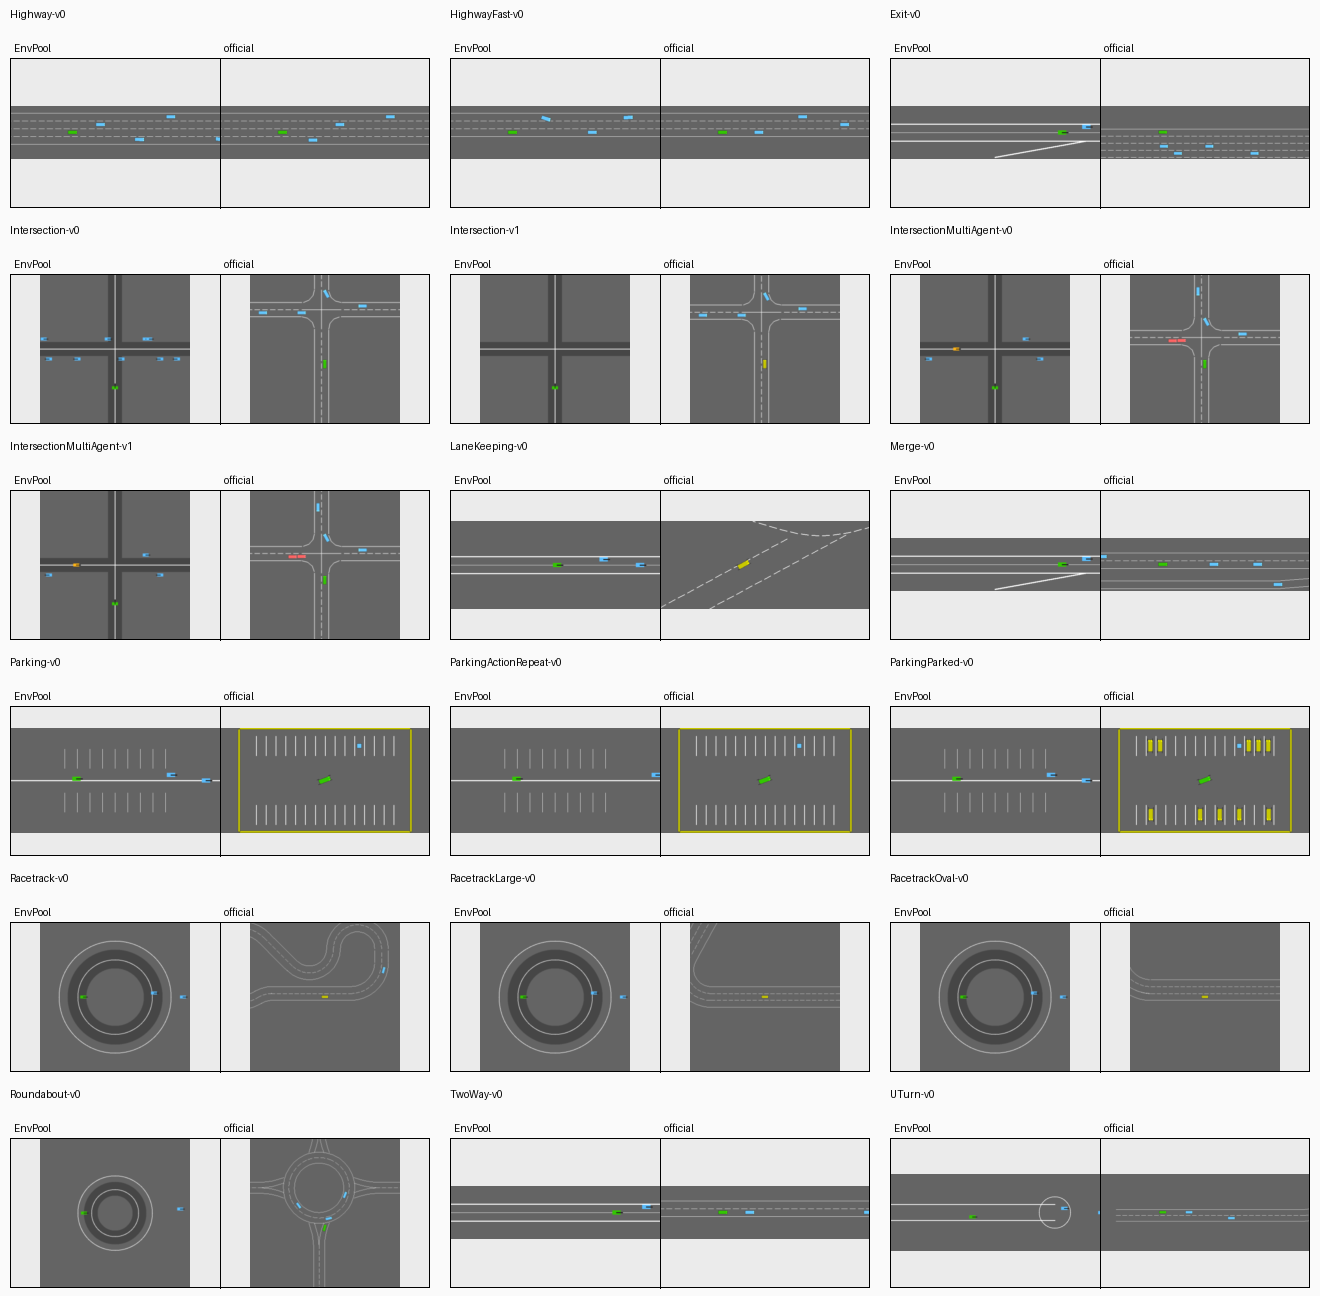
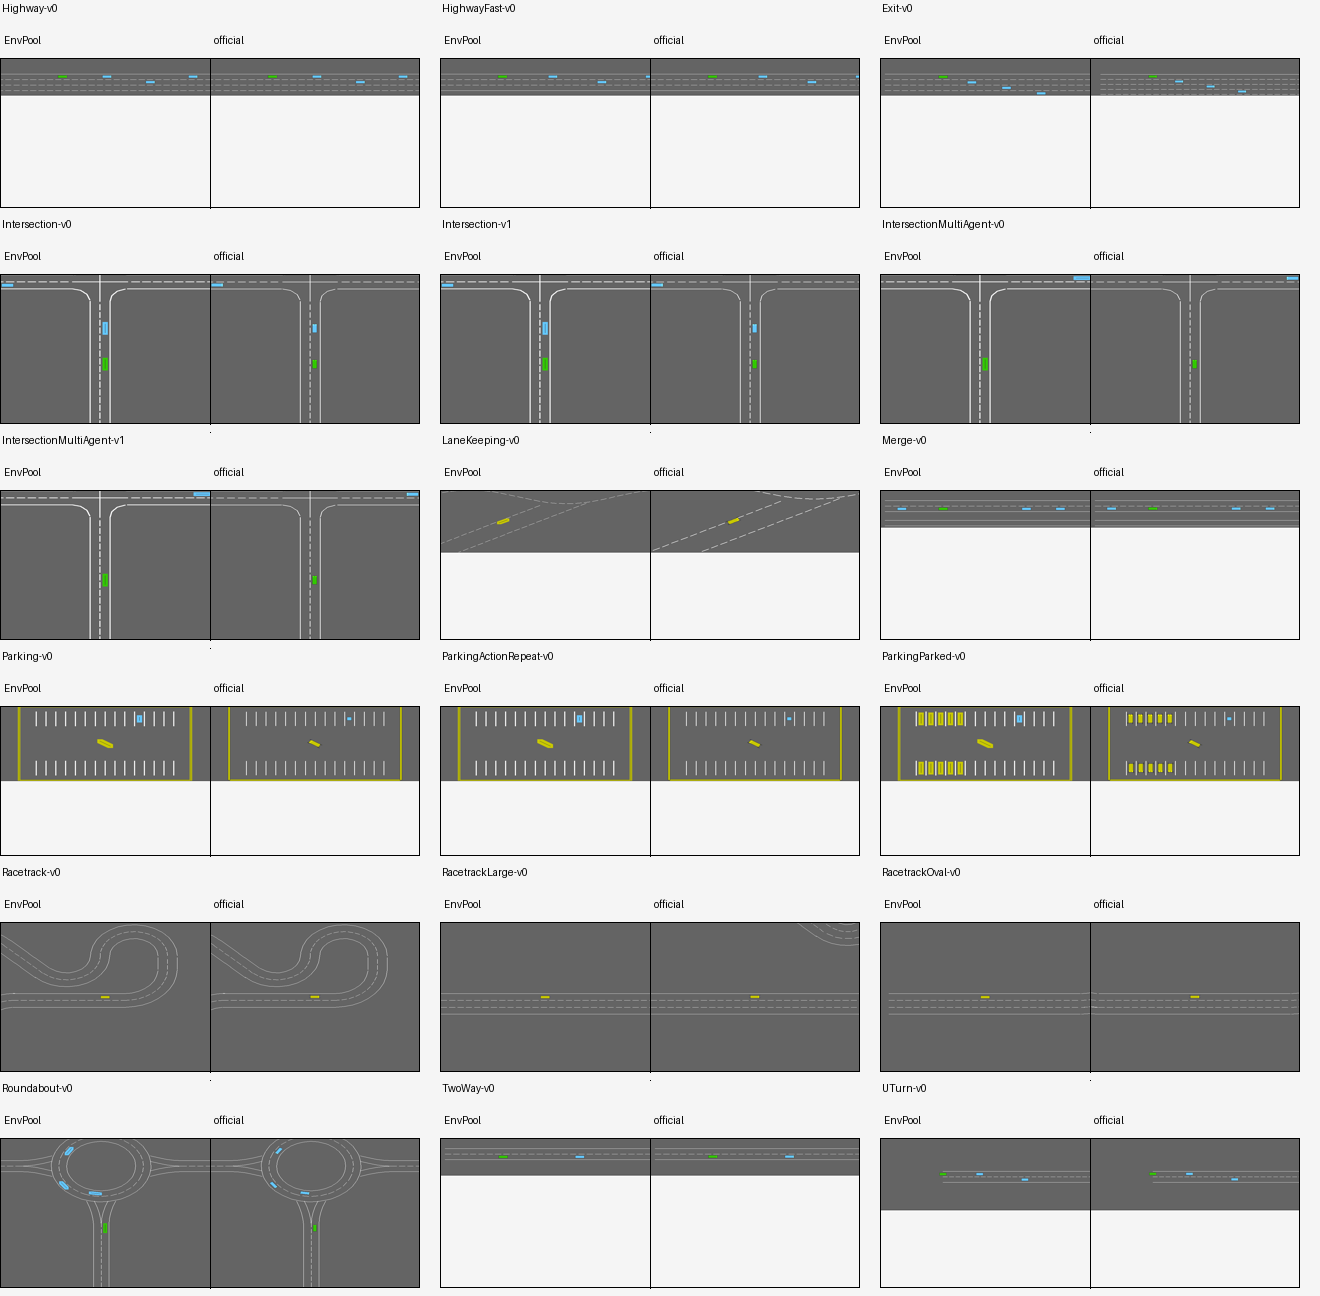
Render official highway road geometry

diff --git a/envpool/highway/native_task_env.h b/envpool/highway/native_task_env.h
@@ -85,6 +85,10 @@ inline double LMap(double value, double x0, double x1, double y0, double y1) {
   return y0 + (value - x0) * (y1 - y0) / (x1 - x0);
 }
 
+inline int Pix(double length, double scaling) {
+  return static_cast<int>(length * scaling);
+}
+
 inline void Fill(unsigned char* rgb, int width, int height, std::uint8_t r,
                  std::uint8_t g, std::uint8_t b) {
   for (int i = 0; i < width * height; ++i) {
@@ -133,6 +137,18 @@ inline void DrawLine(unsigned char* rgb, int width, int height, int x0, int y0,
     FillRect(rgb, width, height, x - radius, y - radius, 2 * radius + 1,
              2 * radius + 1, r, g, b);
   }
+}
+
+inline void DrawRectOutline(unsigned char* rgb, int width, int height, int x,
+                            int y, int w, int h, std::uint8_t r, std::uint8_t g,
+                            std::uint8_t b) {
+  if (w <= 0 || h <= 0) {
+    return;
+  }
+  FillRect(rgb, width, height, x, y, w, 1, r, g, b);
+  FillRect(rgb, width, height, x, y + h - 1, w, 1, r, g, b);
+  FillRect(rgb, width, height, x, y, 1, h, r, g, b);
+  FillRect(rgb, width, height, x + w - 1, y, 1, h, r, g, b);
 }
 
 inline void DrawCircle(unsigned char* rgb, int width, int height, int cx,
@@ -457,26 +473,21 @@ class NativeTaskEnv : public Env<SpecT>, public RenderableEnv {
               unsigned char* rgb) override {
     (void)camera_id;
     Fill(rgb, width, height, 100, 100, 100);
-    DrawScenario(rgb, width, height);
     if (UseOfficialBackend()) {
+      const OfficialRenderTransform transform =
+          OfficialRenderCamera(width, height);
+      DrawOfficialRoad(rgb, width, height, transform);
+      for (const official::RoadObject& object : official_road_->objects) {
+        DrawOfficialObject(rgb, width, height, transform, object);
+      }
       for (int i = 0; i < static_cast<int>(official_road_->vehicles.size());
            ++i) {
         const official::Vehicle& vehicle = official_road_->vehicles[i];
-        Agent agent;
-        agent.x = vehicle.position.x;
-        agent.y = vehicle.position.y;
-        agent.heading = vehicle.heading;
-        agent.speed = vehicle.speed;
-        agent.crashed = vehicle.crashed;
-        if (i == official_ego_index_) {
-          DrawAgent(rgb, width, height, agent, agent.crashed ? 255 : 50,
-                    agent.crashed ? 100 : 200, 0);
-        } else {
-          DrawAgent(rgb, width, height, agent, 90, 190, 255);
-        }
+        DrawOfficialVehicle(rgb, width, height, transform, vehicle);
       }
       return;
     }
+    DrawScenario(rgb, width, height);
     for (const Agent& agent : traffic_) {
       DrawAgent(rgb, width, height, agent, 90, 190, 255);
     }
@@ -1701,6 +1712,203 @@ class NativeTaskEnv : public Env<SpecT>, public RenderableEnv {
                              : 4.0;
     return {static_cast<int>(std::lround(width * 0.5 + x * scale)),
             static_cast<int>(std::lround(height * 0.5 + y * scale))};
+  }
+
+  struct OfficialRenderTransform {
+    double scaling{5.5};
+    double origin_x{0.0};
+    double origin_y{0.0};
+
+    [[nodiscard]] int Pix(double length) const {
+      return native::Pix(length, scaling);
+    }
+
+    [[nodiscard]] std::pair<int, int> Pos2Pix(official::Vec2 position) const {
+      return {Pix(position.x - origin_x), Pix(position.y - origin_y)};
+    }
+  };
+
+  [[nodiscard]] double OfficialRenderScaling() const {
+    if (IsParkingScenario()) {
+      return 7.0;
+    }
+    if (scenario_ == "intersection" || scenario_ == "intersection_multi" ||
+        scenario_ == "intersection_continuous") {
+      return 7.15;
+    }
+    return 5.5;
+  }
+
+  [[nodiscard]] std::pair<double, double> OfficialRenderCentering() const {
+    if (IsParkingScenario()) {
+      return {0.5, 0.5};
+    }
+    if (scenario_ == "intersection" || scenario_ == "intersection_multi" ||
+        scenario_ == "intersection_continuous" || scenario_ == "roundabout") {
+      return {0.5, 0.6};
+    }
+    if (scenario_.find("racetrack") == 0) {
+      return {0.5, 0.5};
+    }
+    return {0.3, 0.5};
+  }
+
+  [[nodiscard]] OfficialRenderTransform OfficialRenderCamera(int width,
+                                                             int height) const {
+    const double scaling = OfficialRenderScaling();
+    const auto [center_x, center_y] = OfficialRenderCentering();
+    const official::Vec2 focus = OfficialEgo().position;
+    return {scaling, focus.x - center_x * static_cast<double>(width) / scaling,
+            focus.y - center_y * static_cast<double>(height) / scaling};
+  }
+
+  void DrawOfficialStripe(unsigned char* rgb, int width, int height,
+                          const OfficialRenderTransform& transform,
+                          const official::Lane& lane, double start, double end,
+                          double lateral) const {
+    start = Clip(start, 0.0, lane.Length());
+    end = Clip(end, 0.0, lane.Length());
+    if (std::abs(start - end) <= 1.5) {
+      return;
+    }
+    const auto [x0, y0] = transform.Pos2Pix(lane.Position(start, lateral));
+    const auto [x1, y1] = transform.Pos2Pix(lane.Position(end, lateral));
+    DrawLine(rgb, width, height, x0, y0, x1, y1, 255, 255, 255,
+             std::max(1, transform.Pix(0.3)));
+  }
+
+  void DrawOfficialLane(unsigned char* rgb, int width, int height,
+                        const OfficialRenderTransform& transform,
+                        const official::Lane& lane) const {
+    constexpr double kStripeSpacing = 4.33;
+    constexpr double kStripeLength = 3.0;
+    const int stripes_count =
+        static_cast<int>(2.0 * static_cast<double>(height + width) /
+                         (kStripeSpacing * transform.scaling));
+    const official::LaneCoordinates origin_coordinates =
+        lane.LocalCoordinates({transform.origin_x, transform.origin_y});
+    const double s0 = (std::floor(static_cast<double>(static_cast<int>(
+                                      origin_coordinates.longitudinal)) /
+                                  kStripeSpacing) -
+                       static_cast<double>(stripes_count / 2)) *
+                      kStripeSpacing;
+    const auto line_types = lane.LineTypes();
+    for (int side = 0; side < 2; ++side) {
+      const double lateral = (static_cast<double>(side) - 0.5) * lane.Width();
+      if (line_types[side] == official::LineType::kStriped) {
+        for (int k = 0; k < stripes_count; ++k) {
+          const double start = s0 + static_cast<double>(k) * kStripeSpacing;
+          DrawOfficialStripe(rgb, width, height, transform, lane, start,
+                             start + kStripeLength, lateral);
+        }
+      } else if (line_types[side] == official::LineType::kContinuous) {
+        for (int k = 0; k < stripes_count; ++k) {
+          const double start = s0 + static_cast<double>(k) * kStripeSpacing;
+          DrawOfficialStripe(rgb, width, height, transform, lane, start,
+                             start + kStripeSpacing, lateral);
+        }
+      } else if (line_types[side] == official::LineType::kContinuousLine) {
+        DrawOfficialStripe(rgb, width, height, transform, lane, s0,
+                           s0 + stripes_count * kStripeSpacing + kStripeLength,
+                           lateral);
+      }
+    }
+  }
+
+  void DrawOfficialRoad(unsigned char* rgb, int width, int height,
+                        const OfficialRenderTransform& transform) const {
+    for (const official::Lane* lane : official_road_->network.Lanes()) {
+      DrawOfficialLane(rgb, width, height, transform, *lane);
+    }
+  }
+
+  void DrawOfficialRect(unsigned char* rgb, int width, int height,
+                        const OfficialRenderTransform& transform,
+                        official::Vec2 center, double length,
+                        double object_width, double heading, std::uint8_t r,
+                        std::uint8_t g, std::uint8_t b, bool outline) const {
+    const auto [cx, cy] = transform.Pos2Pix(center);
+    const int pixel_length = std::max(1, transform.Pix(length));
+    const int pixel_width = std::max(1, transform.Pix(object_width));
+    // Axis-aligned draws match pygame's common unrotated path and keep small
+    // vehicles legible. Rotated vehicles are approximated with a centerline.
+    if (std::abs(heading) <= 2.0 * kPi / 180.0) {
+      const int x = cx - pixel_length / 2;
+      const int y = cy - pixel_width / 2;
+      if (outline) {
+        DrawRectOutline(rgb, width, height, x, y, pixel_length, pixel_width, r,
+                        g, b);
+      } else {
+        FillRect(rgb, width, height, x, y, pixel_length, pixel_width, r, g, b);
+      }
+      return;
+    }
+    const double cos_h = std::cos(heading);
+    const double sin_h = std::sin(heading);
+    const int dx = static_cast<int>(std::lround(0.5 * pixel_length * cos_h));
+    const int dy = static_cast<int>(std::lround(0.5 * pixel_length * sin_h));
+    const int thickness = std::max(1, pixel_width);
+    DrawLine(rgb, width, height, cx - dx, cy - dy, cx + dx, cy + dy, r, g, b,
+             outline ? 1 : thickness);
+  }
+
+  void DrawOfficialObject(unsigned char* rgb, int width, int height,
+                          const OfficialRenderTransform& transform,
+                          const official::RoadObject& object) const {
+    const bool landmark = object.kind == official::RoadObjectKind::kLandmark;
+    const bool red_obstacle =
+        object.kind == official::RoadObjectKind::kObstacle && object.crashed;
+    const bool green_landmark = landmark && object.hit;
+    std::uint8_t r = landmark ? 100 : 200;
+    std::uint8_t g = landmark ? 200 : 200;
+    std::uint8_t b = landmark ? 255 : 0;
+    if (red_obstacle) {
+      r = 255;
+      g = 100;
+      b = 100;
+    }
+    if (green_landmark) {
+      r = 50;
+      g = 200;
+      b = 0;
+    }
+    DrawOfficialRect(rgb, width, height, transform, object.position,
+                     object.length, object.width, object.heading, r, g, b,
+                     false);
+    DrawOfficialRect(rgb, width, height, transform, object.position,
+                     object.length, object.width, object.heading, 60, 60, 60,
+                     true);
+  }
+
+  void DrawOfficialVehicle(unsigned char* rgb, int width, int height,
+                           const OfficialRenderTransform& transform,
+                           const official::Vehicle& vehicle) const {
+    const auto [px, py] = transform.Pos2Pix(vehicle.position);
+    if (px < -80 || px > width + 80 || py < -80 || py > height + 80) {
+      return;
+    }
+    std::uint8_t r = 200;
+    std::uint8_t g = 200;
+    std::uint8_t b = 0;
+    if (vehicle.crashed) {
+      r = 255;
+      g = 100;
+      b = 100;
+    } else if (vehicle.kind == official::VehicleKind::kIDM) {
+      r = 100;
+      g = 200;
+      b = 255;
+    } else if (vehicle.kind == official::VehicleKind::kMDP) {
+      r = 50;
+      g = 200;
+      b = 0;
+    }
+    DrawOfficialRect(rgb, width, height, transform, vehicle.position,
+                     official::kVehicleLength, official::kVehicleWidth,
+                     vehicle.heading, r, g, b, false);
+    DrawOfficialRect(rgb, width, height, transform, vehicle.position,
+                     official::kVehicleLength, official::kVehicleWidth,
+                     vehicle.heading, 60, 60, 60, true);
   }
 
   void DrawScenario(unsigned char* rgb, int width, int height) const {

diff --git a/envpool/highway/official_task.cc b/envpool/highway/official_task.cc
@@ -24,7 +24,7 @@ namespace {
 
 using Lines = std::array<LineType, 2>;
 
-constexpr LineType kContinuous = LineType::kContinuousLine;
+constexpr LineType kContinuous = LineType::kContinuous;
 constexpr LineType kNone = LineType::kNone;
 constexpr LineType kStriped = LineType::kStriped;
 
